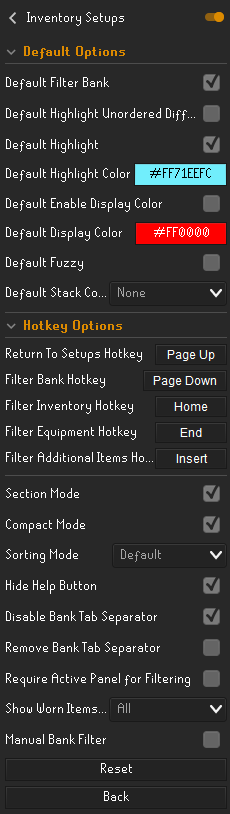
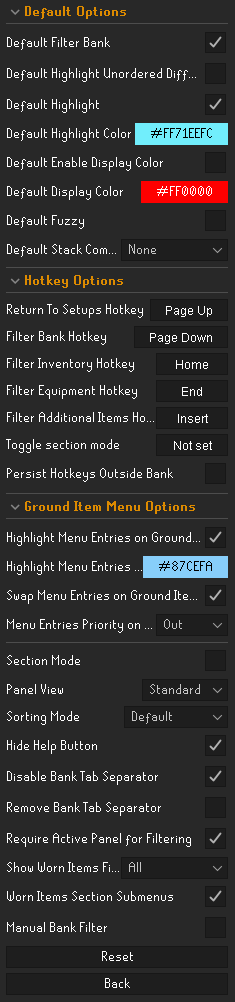
Update README

diff --git a/README.md b/README.md
@@ -20,6 +20,7 @@ Contents
   - [Fuzzy Difference](#fuzzy-difference)
   - [Unordered Highlighting](#unordered-highlighting)
 - [Additional Filtered Items](#additional-filtered-items)
+- [Ground Item Menu Options (For UIMs)](#ground-item-menu-options)
 - [Sections](#sections)
   - [Adding Setups to a Section](#adding-setups-to-a-section)
   - [Remove Setups from a Section](#remove-setups-from-a-section)
@@ -217,6 +218,16 @@ You can also add or update items by using the search option. The fuzzy indicator
 
 ![Additional Filtered Items](readme_images_and_gifs/additional_items_filter.gif)
 
+## Ground Item Menu Options
+
+Menu options on ground items can be swapped and highlighted for items in the current selected setup. This is particularly useful for UIMs when re-gearing from a death pile.
+
+First, configure this feature inside the Ground Item Menu Options section of the settings. If a setup is selected, menu entries corresponding to items in the setup will be highlighted. Entries can also be swapped to the top or the bottom of the menu entries based on the setting configuration.
+
+![Ground Item Menu Options](readme_images_and_gifs/ground_items_menu_entries.gif)
+
+To use this effectively as a UIM, set the priority of menu swapping to OUT. This will cause all items not in your setup (i.e., in your looting bag), to go to the top of the menu entries. From here you can quickly grab the items and store them in the looting bag. The remaining items on the floor will only be items in the setup that are not in the looting bags and that you would want to bring to your current activity.
+
 ## Sections
 
 Sections are a way to organize your setups into different categories. Here is a preview of what sections look like.
@@ -297,45 +308,66 @@ Duplicate names for setups or sections are not allowed in Inventory Setups. If y
 
 ## Configuration Settings
 
-In the settings of Inventory Setups, you can change default setup options, key binds, and other miscellaneous settings.
+In the settings of Inventory Setups, you can change default setup options, key binds, ground item menu options, and other miscellaneous settings.
 
 ![Configuration Settings](readme_images_and_gifs/config_settings.png)
 
+### Default Setup Options
+
 * **Default Filter Bank** - Enabling this will make it so all newly created setups will have bank filtering enabled
-* **Default Highlight Stack Difference** - The default stack difference option for all newly created setups
 * **Default Highlight Unordered Difference** - Enabling this will make it so all newly created setups will have unordered highlighting enabled
 * **Default Highlight** - Enabling this will make it so all newly created setups will have highlighting enabled
 * **Default Highlight Color** - The default highlighting color for newly created setups
-* **Default Enable Display Color** - Enabling this will make it so all newly created setups will have the default display color
+* **Default Enable Display Color** - Enabling this will make it so all newly created setups will have the default display color. The display color is the thin colored line on Standard and Compact setup panels
 * **Default Display Color** - The default color that will be used as a display color for new setups. The option above must be enabled
 
 ![Display Color Gif](readme_images_and_gifs/display_color.gif)
+
 Hint: You can right click the paint bucket to delete the color of a setup or section.
 
 * **Default Fuzzy** - Enabling this will make all slots fuzzy for newly created setups
 * **Default Stack Compare** - The default stack comparison type for all slots in newly created setups
+
+### HotKey Options
 
 * **Return To Setups Hotkey** - Pressing this key will exit the current setup and return to the overview panel where all setups are shown
 * **Filter Bank Hotkey** - Pressing this will cause the bank to filter if a setup is selected and filtering is enabled for that setup. This is useful if you canceled the filter while banking and want to quickly refilter
 * **Filter Inventory Hotkey** - Pressing this will cause the bank to filter only the inventory of a setup if one is selected and filtering is enabled for that setup
 * **Filter Equipment Hotkey** - Pressing this will cause the bank to filter only the equipment of a setup if one is selected and filtering is enabled for that setup
 * **Filter Additional Items Hotkey** - Pressing this will cause the bank to filter only the additional filtered items of a setup if one is selected and filtering is enabled for that setup
+* **Toggle section mode** - Pressing this will switch to section mode
+* **Persist Hotkeys Outside Bank** - Enabling this will cause hot keys to persist outside the bank
 
-* **Compact Mode** - Enabling this will change the setups to compact mode. It is equivalent to pressing the Compact Mode button on the overview panel
+### Ground Item Menu Options
+
+* **Highlight Menu Entries on Ground Items** - Highlights menu entries on ground items which exist in your current setup
+* **Highlight Menu Entries Color** - Changes the color of the menu entries that are highlighted if the above option is selected
+* **Swap Menu Entries on Ground Items** - Swaps menu entries for ground items which exist in your current setup
+* **Menu Entries Priority on Ground Items** - Sets which ground item menu entries appear the top if the above option is selected. Either IN - inside the setup, or OUT - not in the setup
+
+### Other Options
+
+* **Section Mode** - Toggles section mode. Can also be selected on the main window of Inventory Setups
+* **Panel View** - The type of panel view. Standard, Compact, or Icon
 * **Sorting Mode** - The current sorting mode. It is equivalent to pressing the sorting mode button on the overview panel
+* **Hide Help Button** - Hides the help button
 * **Disable Bank Tab Separator** - Enabling this causes bank filtering to continue when the thin bank tab bar is clicked. This is useful if you are accidentally clicking the bar while retrieving items
 
 ![Disable Bank Tab Bar](readme_images_and_gifs/disable_tab_bar.png)
 
-* **Remove Bank Tab Separator** - Enabling this causes the bank tab separators to be removed when the bank is filtered. This is just like the bank tags option.
+* **Remove Bank Tab Separator** - Enabling this causes the bank tab separators to be removed when the bank is filtered. This is just like the bank tags option
 
-![Disable Bank Tab Bar](readme_images_and_gifs/remote_tab_separator.png)
+![Remove Bank Tab Bar](readme_images_and_gifs/remote_tab_separator.png)
 
 * **Require Active Panel for Filtering** - Enabling this will make it so filtering will only occur if the Inventory Setups Panel is selected. For example, if you have selected the hiscores panel and are viewing a setup with filtering enabled, the bank **will not** be filtered
 
-* **Show Worn Item Filter** - Changes which setups show up on the "show worn items" button when right clicked.
+* **Show Worn Item Filter** - Changes which setups show up on the "show worn items" button when right clicked
 
-* **Manual Bank Filter** - Enabling this causes the bank to not filter automatically when opened. You will need to manually trigger a bank filter by using a hot key or selecting a setup when the bank when it is already opened.
+* **Worn Items Section Submenus** - Allows section submenus when right clicking the "show worn items" button
+
+![Section Submenus](readme_images_and_gifs/section_submenus.png)
+
+* **Manual Bank Filter** - Enabling this causes the bank to not filter automatically when opened. You will need to manually trigger a bank filter by using a hot key or selecting a setup when the bank when it is already opened
 
 ## Other Plugin Compatibilities
 
